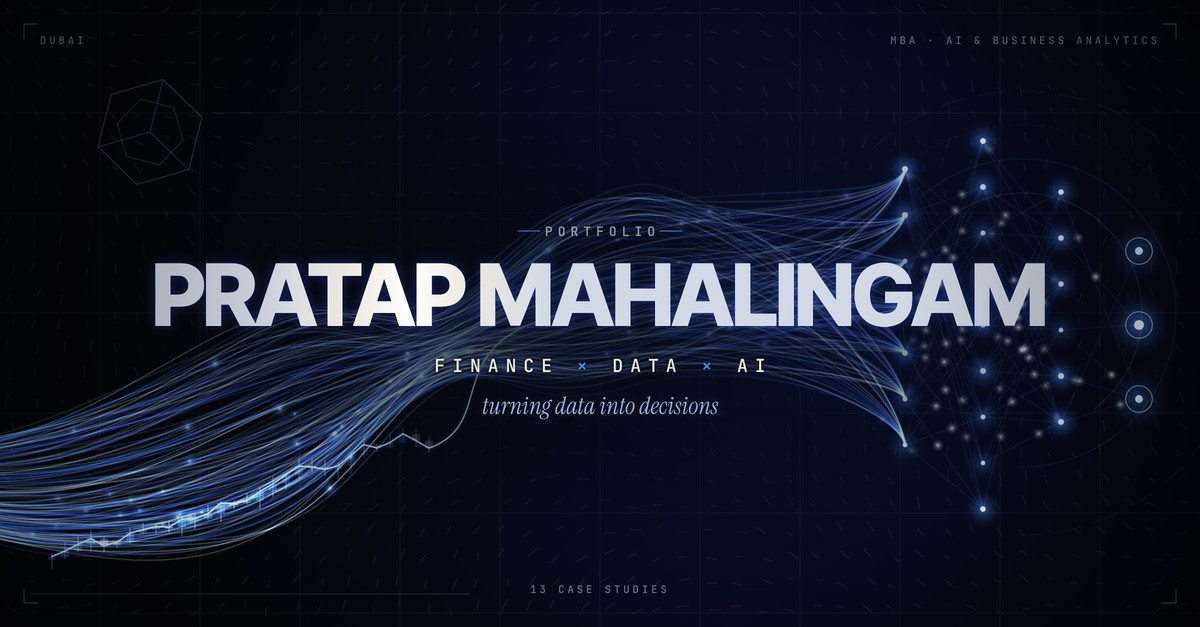
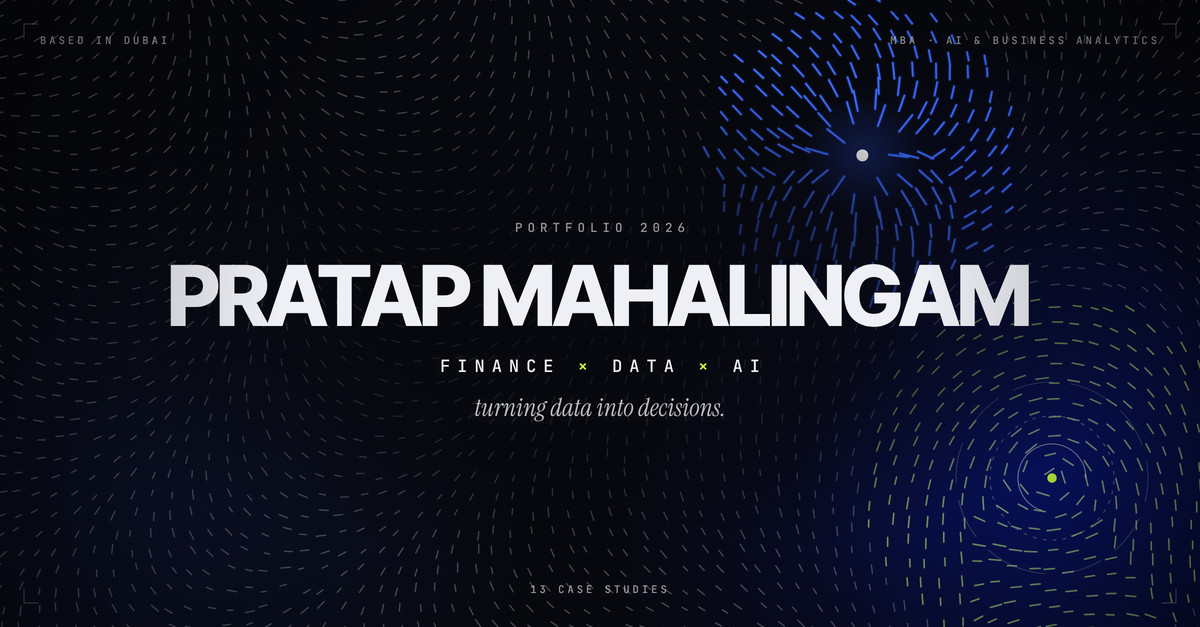
Social preview: switch to the dash-field design that matches the site
Claude-Session: https://claude.ai/code/session_01REZ7H4gFDdqrNbwF57SVJJ

diff --git a/src/app/layout.tsx b/src/app/layout.tsx
@@ -20,7 +20,7 @@ export const metadata: Metadata = {
     title: "Pratap Mahalingam | Finance × Data × AI",
     description: "Portfolio of Pratap Mahalingam: thirteen finance, data and AI case studies, each with a measured result. MBA in AI & Business Analytics, Dubai.",
     locale: "en_GB",
-    images: [{ url: "/og-portfolio.jpg", width: 1200, height: 627, alt: "Pratap Mahalingam, Finance × Data × AI: data lines flowing from a price chart into a neural network" }],
+    images: [{ url: "/og-portfolio.jpg", width: 1200, height: 627, alt: "Pratap Mahalingam, Finance × Data × AI: a field of short strokes scattering around a moving cursor" }],
   },
   twitter: {
     card: "summary_large_image",
